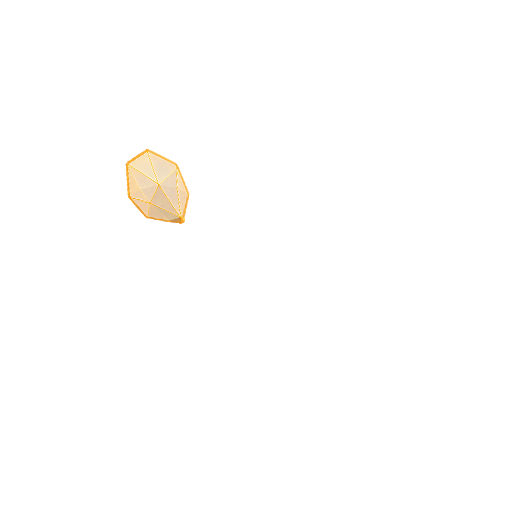
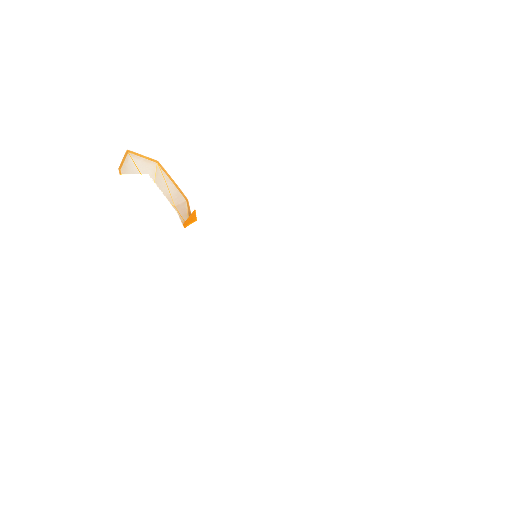
art: fit profile hat eyelets and use Zhuzha wing contours

Changed region(s): [[0.2188, 0.2812, 0.4062, 0.4375]]

diff --git a/scripts/art_asset_catalog.py b/scripts/art_asset_catalog.py
@@ -80,12 +80,12 @@ def classify(rel):
         category={'tiles':'Глифы и соты','ui':'Награды и усилители','env':'Фоны и грядки','garden':'Растения','costumes':'Наряды','deco':'Декор','trick':'Декор','flight':'Ночной полёт'}.get(section,'Макеты и проверки')
         status='Кандидат / вариант';season='Хеллоуин';style='Медовый кристалл'
         if section=='review':role='Лист / сравнение'
-        if section=='review' and stem in {'witchhat-profile-v3','witchhat-profile-check-v3','witchhat-side-fix-v2'}:status='Архив / пробы'
+        if section=='review' and stem in {'witchhat-profile-v3','witchhat-profile-check-v3','witchhat-side-fix-v2','witchhat-profile-v4','witchhat-profile-check-v4'}:status='Архив / пробы'
     title=TITLES.get(stem,stem.replace('_',' ').replace('-',' '))
     if p.startswith('design/2d/halloween/'):
         title={'bg_sky':'Ночной полёт / небо','bg_far':'Ночной полёт / дальние холмы','bg_near':'Ночной полёт / передний план','parallax-repeat-check':'Фоны полёта / проверка повторов','parallax-scene':'Ночной полёт / общий вид','parallax-motion':'Ночной полёт / проба параллакса'}.get(stem,title)
         if p.startswith('design/2d/halloween/flight/') and stem=='icon':title='Иконка Ночного полёта'
-        if stem.startswith('witchhat-'):title='Ведьминская шляпа / '+{'witchhat-front-view':'спереди','witchhat-q3-front-view':'три четверти','witchhat-side-view':'профиль','witchhat-fit-v1':'примерка трёх ракурсов','witchhat-profile-v4':'актуальный профиль','witchhat-profile-check-v4':'посадка и усики / сравнение'}.get(stem,stem)
+        if stem.startswith('witchhat-'):title='Ведьминская шляпа / '+{'witchhat-front-view':'спереди','witchhat-q3-front-view':'три четверти','witchhat-side-view':'профиль','witchhat-fit-v1':'примерка трёх ракурсов','witchhat-profile-v4':'отклонённый профиль v4','witchhat-profile-check-v4':'отклонённая примерка v4','witchhat-profile-v5':'новый профиль / кандидат','witchhat-profile-check-v5':'сравнение с профилем Жужи'}.get(stem,stem)
     if 'glyph-contrast-options' in p:
         title={'01-soft-crystal':'Глифы · Мягкий кристалл','02-matte-pastel':'Глифы · Матовая пастель','03-warm-wax':'Глифы · Тёплый воск','04-halloween':'Глифы · Ранний Хеллоуин','04a-halloween-soft-crystal':'Глифы · Хеллоуин 4А / кристалл','04b-halloween-matte-pastel':'Глифы · Хеллоуин 4Б / пастель','bomb-compact':'Компактная бомба'}.get(stem,title)
     if species and accessory:title=f'{species} · {accessory} · {stem}'
